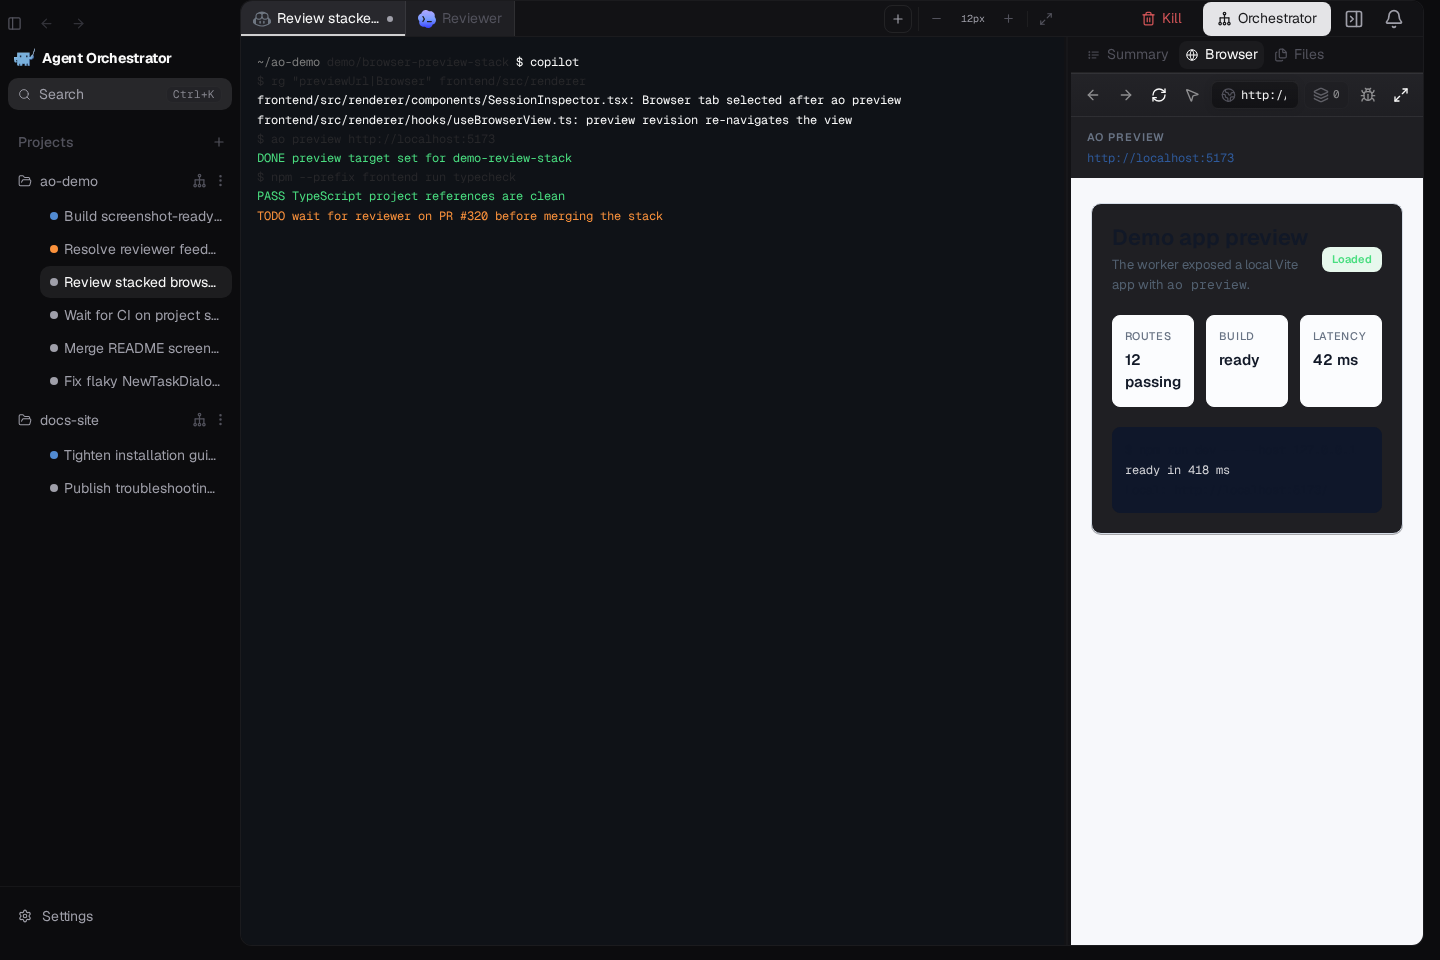
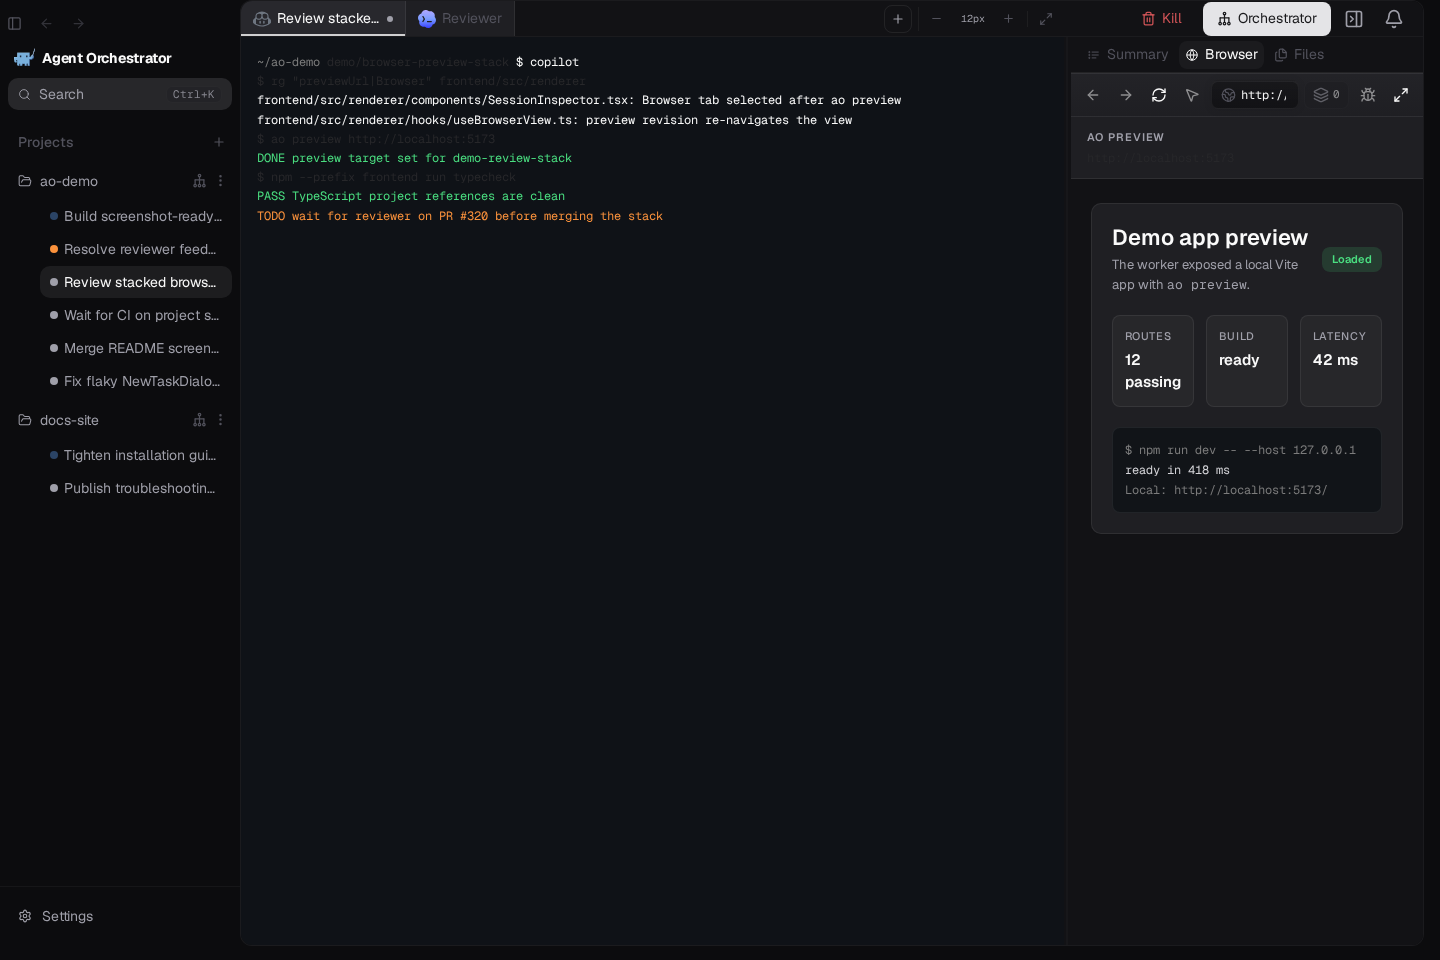
fix: theme static browser preview

Changed region(s): [[0.7188, 0.1562, 1.0, 1.0]]

diff --git a/frontend/src/renderer/components/BrowserPanel.tsx b/frontend/src/renderer/components/BrowserPanel.tsx
@@ -586,23 +586,23 @@ function browserTabLabel(title: string, url: string): { title: string; subtitle:
 
 function StaticPreview({ url }: { url: string }) {
 	return (
-		<div className="absolute inset-0 overflow-auto bg-preview text-preview-foreground">
-			<div className="border-b border-preview bg-surface px-4 py-3">
-				<div className="text-caption font-semibold uppercase tracking-wide-md text-preview-muted">AO Preview</div>
-				<div className="mt-1 truncate font-mono text-xs text-preview-link">{url}</div>
+		<div className="absolute inset-0 overflow-auto bg-background text-foreground">
+			<div className="border-b border-border bg-surface px-4 py-3">
+				<div className="text-caption font-semibold uppercase tracking-wide-md text-muted-foreground">AO Preview</div>
+				<div className="mt-1 truncate font-mono text-xs text-accent">{url}</div>
 			</div>
 			<div className="mx-auto max-w-preview-max px-5 py-6">
-				<div className="rounded-lg border border-preview-card bg-surface p-5 shadow-sm">
+				<div className="rounded-lg border border-border bg-card p-5 shadow-sm">
 					<div className="flex items-center justify-between gap-3">
 						<div>
-							<h1 className="text-heading-lg font-semibold leading-tight tracking-normal text-preview-heading">
+							<h1 className="text-heading-lg font-semibold leading-tight tracking-normal text-foreground">
 								Demo app preview
 							</h1>
-							<p className="mt-1 text-control leading-row text-preview-body">
+							<p className="mt-1 text-control leading-row text-muted-foreground">
 								The worker exposed a local Vite app with <span className="font-mono">ao preview</span>.
 							</p>
 						</div>
-						<span className="rounded-md bg-preview-success px-2.5 py-1 text-caption font-semibold text-success">
+						<span className="rounded-md bg-success/15 px-2.5 py-1 text-caption font-semibold text-success">
 							Loaded
 						</span>
 					</div>
@@ -612,13 +612,13 @@ function StaticPreview({ url }: { url: string }) {
 							["Build", "ready"],
 							["Latency", "42 ms"],
 						].map(([label, value]) => (
-							<div key={label} className="rounded-md border border-preview-tile bg-preview-tile p-3">
-								<div className="text-caption font-medium uppercase tracking-wide text-preview-muted">{label}</div>
-								<div className="mt-1 text-subtitle font-semibold text-preview-heading">{value}</div>
+							<div key={label} className="rounded-md border border-border bg-raised p-3">
+								<div className="text-caption font-medium uppercase tracking-wide text-muted-foreground">{label}</div>
+								<div className="mt-1 text-subtitle font-semibold text-foreground">{value}</div>
 							</div>
 						))}
 					</div>
-					<div className="mt-5 rounded-md border border-preview-terminal bg-preview-terminal p-3 font-mono text-xs leading-row text-preview-terminal">
+					<div className="mt-5 rounded-md border border-border bg-terminal p-3 font-mono text-xs leading-row text-terminal-dim">
 						<div>$ npm run dev -- --host 127.0.0.1</div>
 						<div className="text-success-bright">ready in 418 ms</div>
 						<div>Local: http://localhost:5173/</div>

diff --git a/frontend/src/renderer/components/BrowserPanel.test.tsx b/frontend/src/renderer/components/BrowserPanel.test.tsx
@@ -219,6 +219,20 @@ describe("BrowserPanel", () => {
 		expect(hookState.previewUrl).toBe("file:///tmp/preview/index.html");
 	});
 
+	it("uses the active app theme for the static browser preview", () => {
+		hookState.navState = { ...hookState.navState, url: "http://localhost:5173/" };
+		const ao = window.ao;
+		Object.defineProperty(window, "ao", { configurable: true, value: undefined });
+		try {
+			render(<BrowserPanel active onTogglePopOut={() => undefined} poppedOut={false} session={session} />);
+
+			const preview = screen.getByText("Demo app preview").closest(".bg-preview, .bg-background");
+			expect(preview).toHaveClass("bg-background", "text-foreground");
+		} finally {
+			Object.defineProperty(window, "ao", { configurable: true, value: ao });
+		}
+	});
+
 	it("binds navigation controls to nav state", async () => {
 		hookState.navState = {
 			viewId: "42:sess-1",
